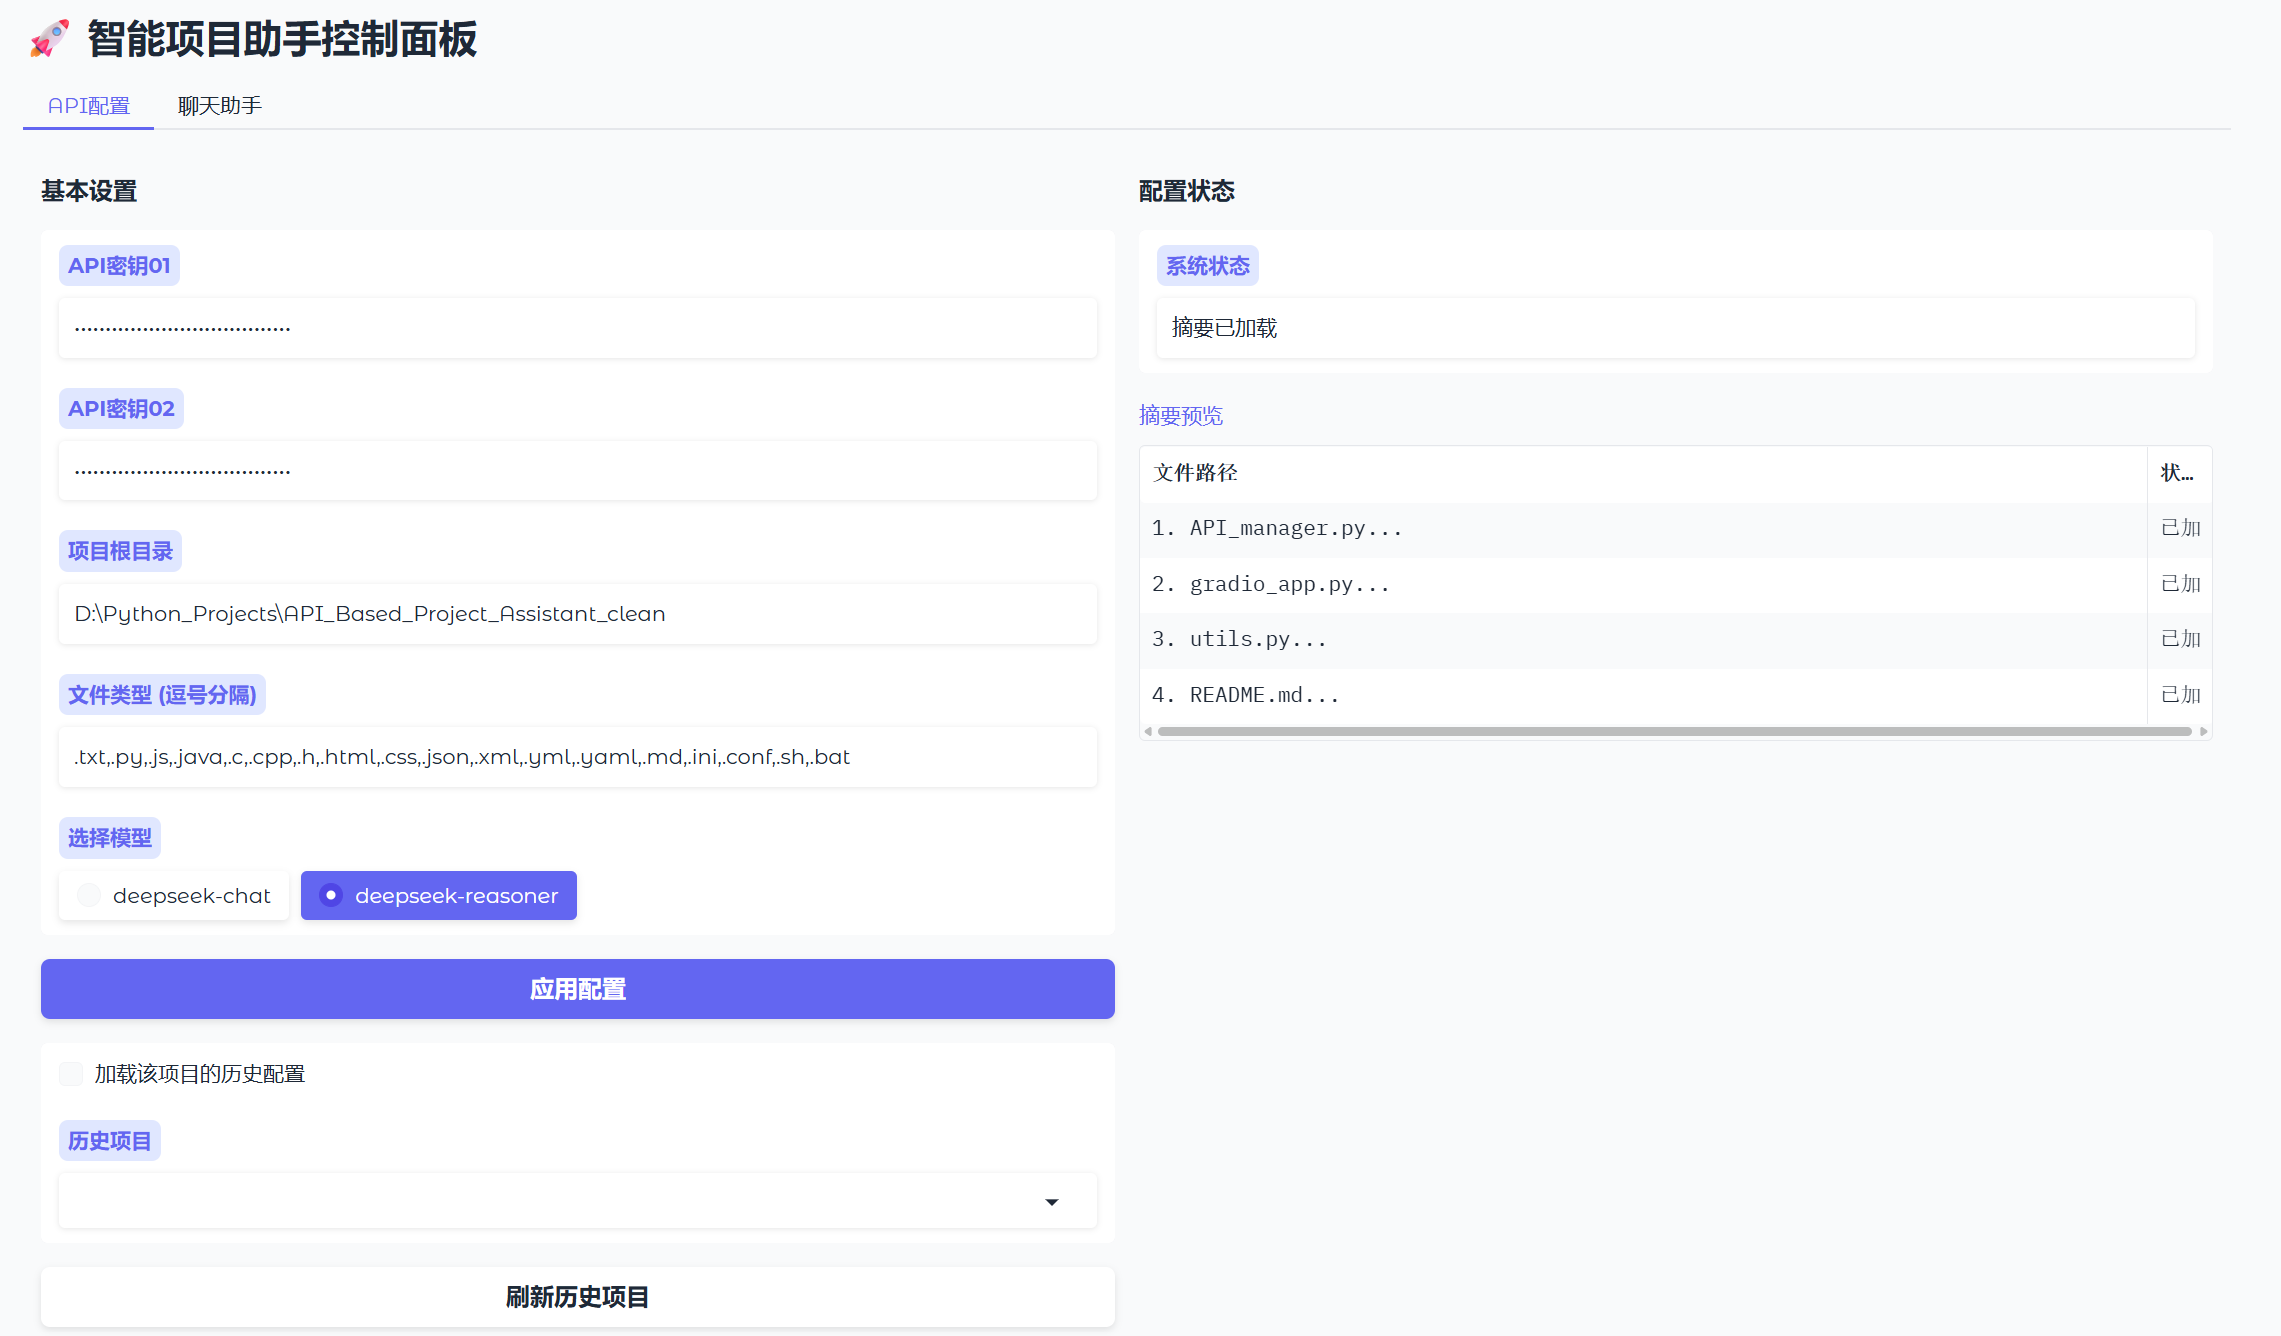
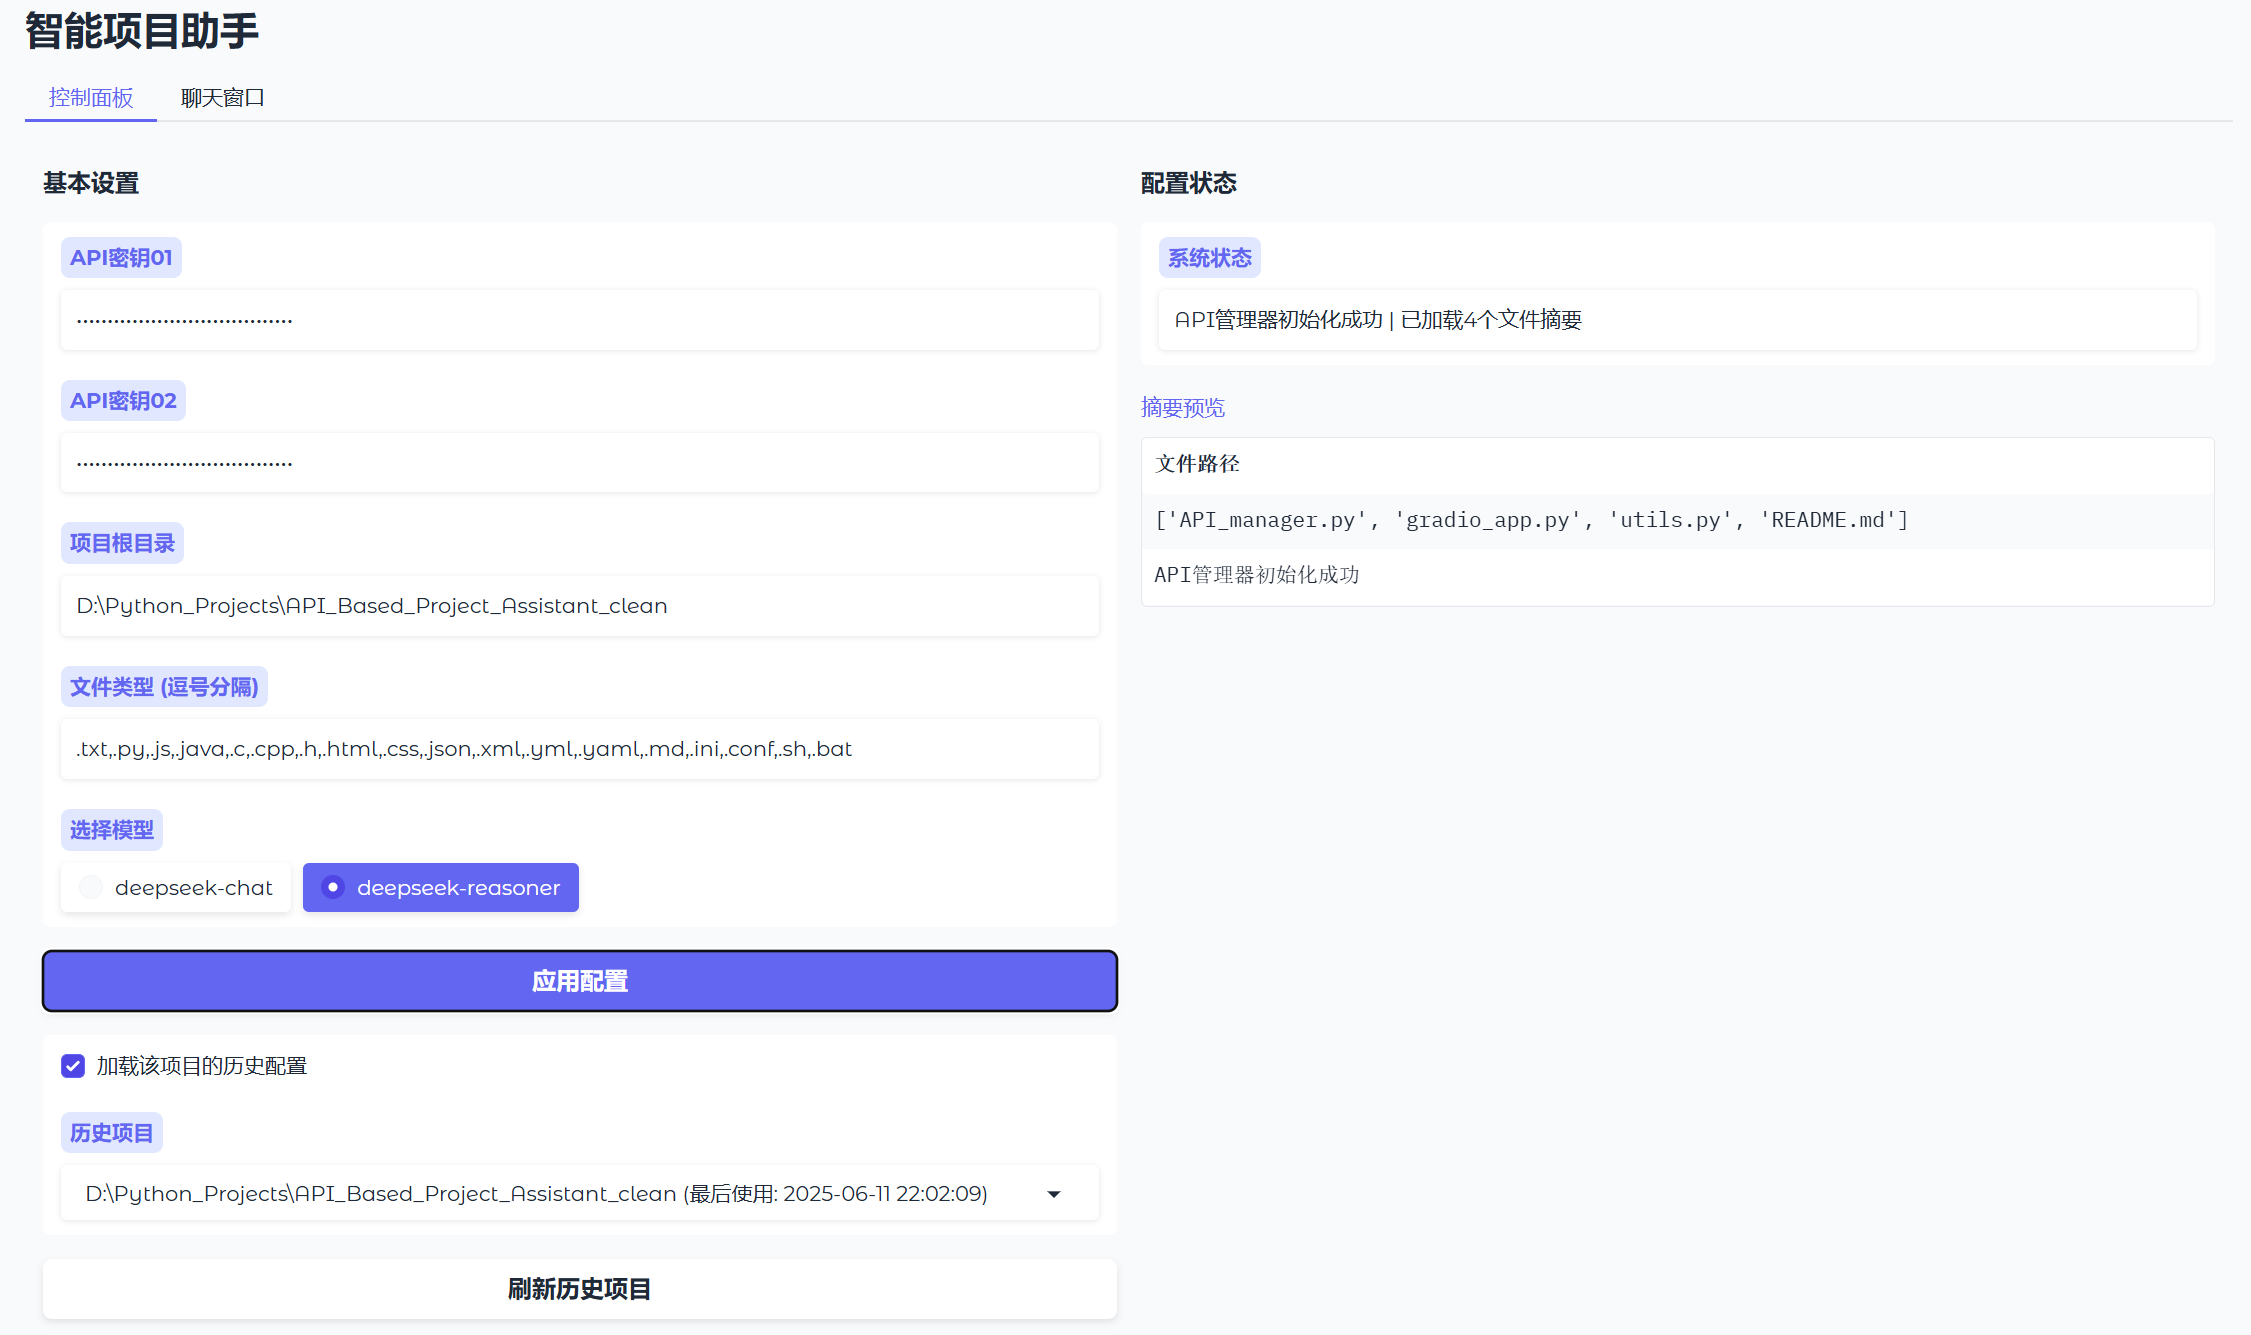
add image to readme

diff --git a/gradio_app.py b/gradio_app.py
@@ -134,14 +134,14 @@ def chat_with_ai(message, chat_history, scan_files, load_files):
 
 # 创建界面
 with gr.Blocks(title="项目小精灵", theme=gr.themes.Soft()) as demo:
-    gr.Markdown("# 控制面板")
+    gr.Markdown("# 智能项目助手")
 
     # 持久化存储状态
     api_key_state = gr.State()
     project_root_state = gr.State()
 
     # API配置面板
-    with gr.Tab("API配置"):
+    with gr.Tab("控制面板"):
         with gr.Row():
             with gr.Column(scale=1):
                 gr.Markdown("### 基本设置")

diff --git a/README.md b/README.md
@@ -36,8 +36,8 @@ F --> G[返回响应+统计]
 ### 4. 可视化控制台
 - Gradio网页界面（`gradio_app.py`实现）
 - 双标签页设计：
-  - **API配置页**：密钥管理+项目设置
-  - **聊天助手页**：技术问答+实时分析
+  - **控制面板**：密钥管理+项目设置 ![image](imgs/control panel.png)
+  - **聊天窗口**：技术问答+实时分析 ![image](imgs/chat.png)
 - 历史项目记忆（`projects_history.json`自动保存）
 
 ### 5. 智能问答系统
@@ -52,17 +52,19 @@ F --> G[返回响应+统计]
     python gradio_app.py
 
 ```
-3. 访问界面
-浏览器打开 http://localhost:7860
+浏览器打开 http://localhost:7860 ，启动图形化界面
 
 ### 操作流程
-1. **配置页面**（API配置标签页）
-   - 输入DeepSeek API密钥（双密钥支持）
-   - 设置项目根目录（绝对路径）
-   - 选择文件类型（默认`.py,.js,.java`等）
-   - 点击"应用配置"初始化
-
-2. **分析页面**（聊天助手标签页）
+1. **配置页面**（控制面板）
+   - 选择历史项目：
+     - 自动填充信息
+   - 或分析新项目：
+     - 输入DeepSeek API密钥（建议输入两个不同密钥）[双密钥](#-注意事项)
+     - 设置项目根目录（绝对路径）
+     - 选择文件类型（默认`.py,.js,.java`等）
+     - 点击"应用配置"初始化
+   
+2. **分析页面**（聊天窗口）
    ```python
    # 示例问题：
    "用户登录功能如何实现？"
@@ -116,12 +118,12 @@ Python 3.8+
 
 ### 持久化存储
 ```tree
-被我访问过的项目根目录/
+被访问过的项目的根目录/
 ├── .aide_doc/                  # 自动生成
 │   ├── summaries/              # 详细摘要
 │   └── summary_index.json      # 摘要索引（含文件哈希）
 ├── ...
-└── ...
+...
 ```
 
 ## 💡 技术实现
@@ -142,13 +144,11 @@ def analyze(user_input, chat_history, scan_files, load_files):
   4. 结合摘要+文件内容生成回答
   5. 返回响应+统计信息
 ```
+![image](imgs/log.png)
 
 ## 📁 项目结构
 ```
 smart-dev-assistant/
-├── .aide_doc/                  # 自动生成（代码摘要）
-│   ├── summaries/              # 按路径存储的摘要文件
-│   └── summary_index.json      # 文件哈希索引
 ├── history_information/        # 历史配置（自动创建）
 │   └── projects_history.json   # 加密的项目配置记录
 ├── gradio_app.py               # 主界面（1400+行GUI逻辑）
